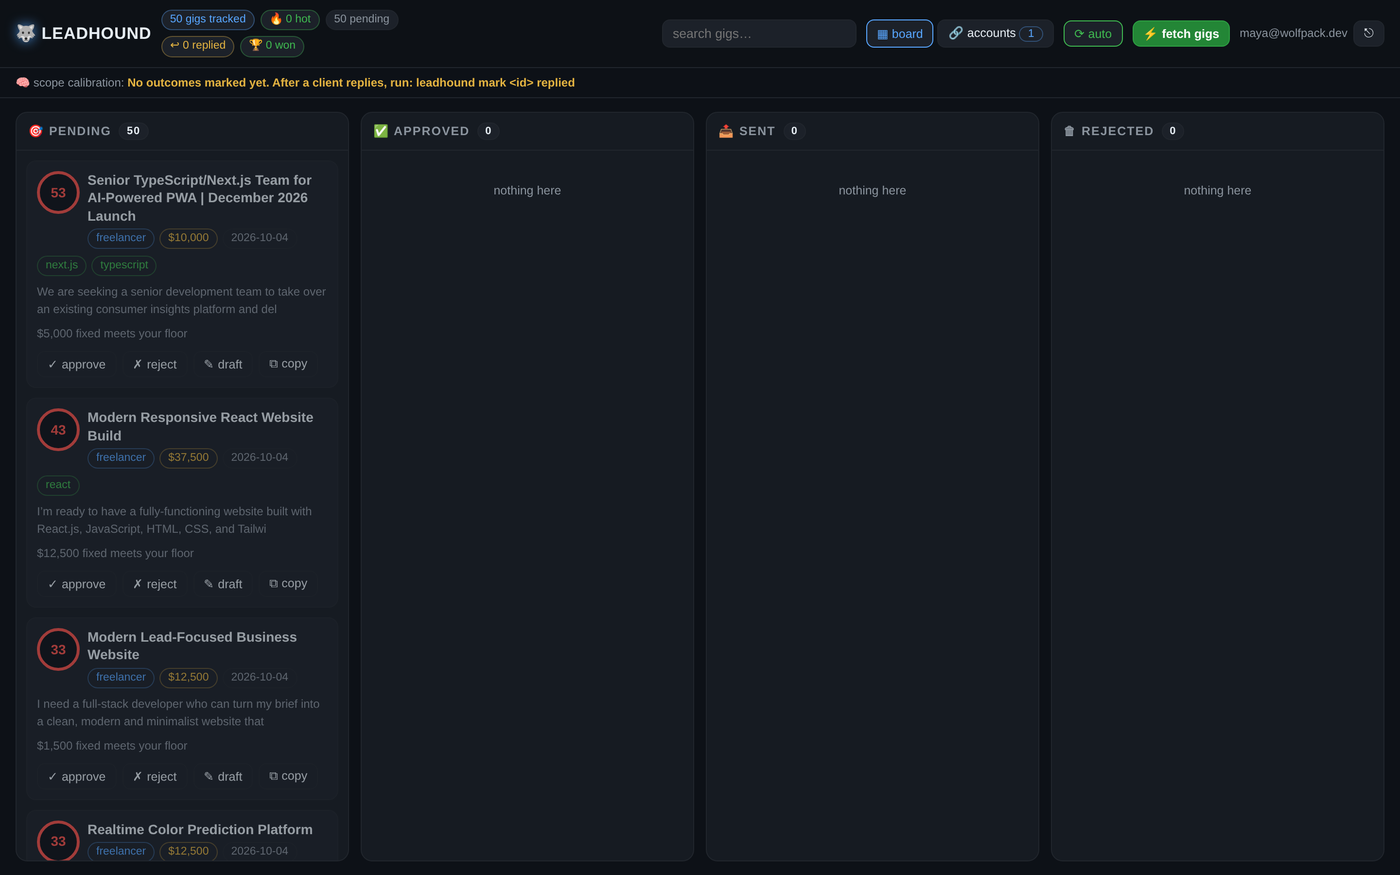
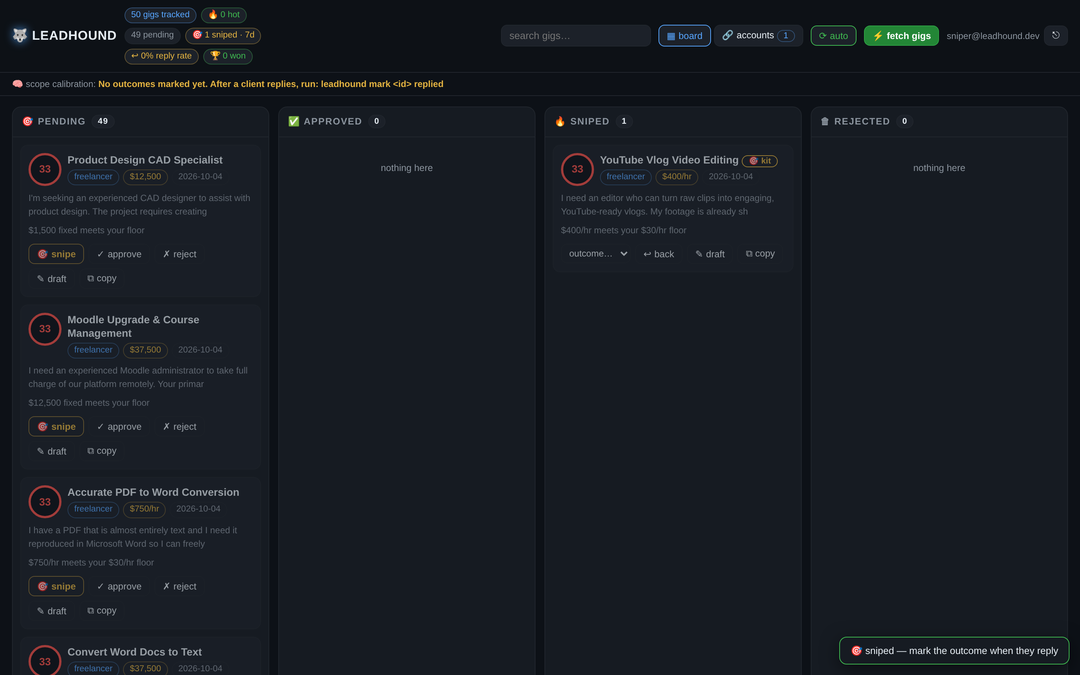
release: v0.7.0 — the sniper release
- 🎯 snipe mode: live-fire real bids (Freelancer.com official API, linked
  account, user-triggered) + honest one-click snipe kit everywhere else
- freelancer_account OAuth link, snipe audit trail, sniper stats chips
- new media: docs/demo-snipe.gif (real Freelancer.com gigs through the
  fire dialog -> confirm -> sniped column), refreshed screenshot.png +
  screenshot-snipe.png
- CHANGELOG 0.7.0, README snipe section + ToS note updated honestly,
  version 0.7.0 (pyproject + package), 206 tests green

diff --git a/leadhound/__init__.py b/leadhound/__init__.py
@@ -4,4 +4,4 @@ Watches freelance job boards, scores every gig against your profile,
 drafts the proposal in your voice. You just approve and send.
 """
 
-__version__ = "0.6.0"
+__version__ = "0.7.0"

diff --git a/README.md b/README.md
@@ -3,7 +3,9 @@
 # 🐺 leadhound
 
 **The gig sniper.** Watches freelance job boards 24/7, scores every gig against
-*your* profile, and drafts the proposal **in your voice** — you just approve and send.
+*your* profile, drafts the proposal **in your voice** — and when you say go, it
+fires with **your own account**: a real bid on Freelancer.com, or a one-click
+snipe kit everywhere else.
 
 *In freelancing, speed wins. The first five proposals on a fresh gig get
 disproportionate replies. leadhound makes sure you're always among them —
@@ -21,10 +23,10 @@ drafted → ✎ review, ✓ approve, 📋 copy. The radar keeps hunting while yo
 [![Code style: ruff](https://img.shields.io/endpoint?url=https://raw.githubusercontent.com/astral-sh/ruff/main/assets/badge/v2.json)](pyproject.toml)
 [![PRs welcome](https://img.shields.io/badge/PRs-welcome-brightgreen.svg)](CONTRIBUTING.md)
 
-**local-first · login system · 8 job-site connectors · REST API (FastAPI) ·
+**local-first · login system · 8 job-site connectors + account link · live-fire sniping · REST API (FastAPI) ·
 native binaries for Windows / macOS / Linux**
 
-**[Quickstart](#-quickstart--three-ways-to-run-it) · [Usage](#-usage--every-way-to-drive-it) · [Sources](#-sources--connect-the-job-sites) · [How it works](#-how-it-works) · [REST API](#-rest-api) · [FAQ](#-faq) · [Author](#-author)**
+**[Quickstart](#-quickstart--three-ways-to-run-it) · [Usage](#-usage--every-way-to-drive-it) · [Sources](#-sources--connect-the-job-sites) · [Snipe mode](#-snipe-mode--fire-with-your-account) · [How it works](#-how-it-works) · [REST API](#-rest-api) · [FAQ](#-faq) · [Author](#-author)**
 
 <sub><b>designed & built by <a href="https://github.com/e2sy">Mayank Bhaskar</a></b></sub>
 
@@ -122,8 +124,32 @@ The **🔗 accounts** tab is where the hunting happens. Every job site gets a ca
 | **Upwork** | your free [dev-app keys](https://www.upwork.com/developer/applications) → 🔗 connect | Official OAuth2 flow, auto-refreshed token, real job search |
 | **Fiverr** *(beta)* | your session cookie | Buyer requests, read-only, from your own logged-in session |
 | **Custom RSS / Atom** | any feed URL | Niche boards, Upwork/Fiverr RSS mirrors, agency feeds — anything |
+| **Freelancer.com account (snipe)** | your free [dev-app keys](https://www.freelancer.com/developers/applications) → 🔗 connect | Official OAuth2 account link — arms 🎯 live-fire bids on every Freelancer.com gig. Never fetches gigs; fires shots. |
 
 Credentials live in your local SQLite, masked in the UI (`•••`) and never sent anywhere except the site you're connecting to. Fiverr is labeled beta honestly: they have no public API, so if their page layout changes, the connector says so instead of pretending.
+
+## 🔥 Snipe mode — fire with YOUR account
+
+v0.7.0 closes the loop: finding gigs was half the job — **firing the shot is the other half**, and now leadhound does it with you:
+
+<p align="center">
+  <img src="docs/demo-snipe.gif" alt="the snipe loop — open the fire dialog on a real gig, review the proposal, copy + open the gig, confirm, the card lands in the Sniped column with a receipt" width="100%">
+</p>
+
+Every pending/approved card has a **🎯 snipe** button. The fire dialog knows two honest modes:
+
+| Mode | When | What happens |
+|---|---|---|
+| **🔥 live-fire** | Freelancer.com gig + your linked account | A **real bid** is placed on Freelancer.com via their official API with your own token — you set the amount and delivery period, hit fire, and the platform bid id lands in your board's audit trail. This is your account, your trigger, on the books. |
+| **🎯 snipe kit** | every other source (Upwork, Fiverr, RSS, HN, …) | Your proposal goes into an editable textarea. One click copies it and opens the gig page in your own logged-in browser session. You paste, you send, you tap *"✓ sent it"* — the shot is recorded honestly. (Upwork's API doesn't let third-party apps submit proposals; Fiverr has no API at all. We won't pretend otherwise.) |
+
+Link your Freelancer.com account in the accounts hub: create a free dev app at [freelancer.com/developers](https://www.freelancer.com/developers/applications), paste the keys, hit 🔗 connect — same two-minute OAuth flow as Upwork. The card shows `linked as @you`, and every Freelancer.com gig becomes live-fire.
+
+Every sniped card tracks the outcome (↩ replied · 🏆 won · ✗ lost) — the scope calibrates on real results, and the chips show your 7-day fire rate and reply rate.
+
+<p align="center">
+  <img src="docs/screenshot-snipe.png" alt="the snipe dialog — kit mode with the generated proposal, editable before firing" width="720">
+</p>
 
 ## 🎯 How it works
 
@@ -146,7 +172,7 @@ Credentials live in your local SQLite, masked in the UI (`•••`) and never 
 | **Parser** | Regex signal extraction: money (hourly / fixed / ranges), client-quality signals (payment verified, past hires, top-rated), red flags, skill matching. |
 | **Scorer** | `skills 0-60 · budget 0-25 · client quality 0-15 · red flags -15 each`. Every gig ships with a human-readable breakdown: *"58 — matched react, typescript; no budget stated (neutral)"*. |
 | **Voice engine** | Template mode works with zero config. Or plug any OpenAI-compatible endpoint (OpenAI, Groq, OpenRouter, local Ollama) and it ghostwrites in your tone, trained on your past winning proposals. |
-| **Approval queue** | Rich CLI queue or Telegram/Discord/Slack cards. **You always fire the final shot.** leadhound is a radar + copilot, *not* an auto-bidder. |
+| **Approval queue** | Rich CLI queue or Telegram/Discord/Slack cards, or the 🎯 snipe button on the dashboard. **You pull the trigger** — live-fire bids are user-clicked only, kit snipes are user-confirmed. leadhound is a radar + copilot, *not* a background auto-bidder. |
 | **Client intel** | Cross-references your own gig history: repeat posters and repeat lowballers get flagged before you spend a minute on the draft. |
 | **Learning loop** | `leadhound mark <id> won/lost/replied` → stats calibrate: winners vs losers by score, with hints to tighten your scope. The tool gets sharper the longer you hunt. |
 | **Web dashboard** | `leadhound web` — a login-protected kanban board of your pipeline: create an account, connect job sites in the accounts tab (setup wizards included), fetch gigs, drag pending → approved → sent, edit drafts in-browser, mark outcomes, live search. Accounts, sessions and per-source configs are stored locally in SQLite. Binds to 127.0.0.1 (or `--host 0.0.0.0` to drive it from your phone). |
@@ -159,8 +185,11 @@ The dashboard is backed by a real REST API (FastAPI). Run the app and open [`/do
 
 ```
 POST /api/auth/register · login · logout        session cookies (HttpOnly, SameSite=Lax)
-GET  /api/state                                 board + stats + calibration
+GET  /api/state                                 board + stats + calibration + snipe stats
 POST /api/status · /api/draft · /api/outcome    pipeline mutations
+GET  /api/jobs/{id}/snipe-plan                  how this gig can be sniped (api vs kit)
+POST /api/jobs/{id}/snipe                       fire: real bid via the linked account
+POST /api/jobs/{id}/snipe-confirm               kit send confirmed by the user
 GET  /api/connectors                            all sources + per-account config
 POST /api/connectors/{id} · {id}/run            configure / fetch a source now
 POST /api/fetch                                 fetch every enabled source now
@@ -175,10 +204,11 @@ Platforms ban bots that log in, scrape logged-in pages, and auto-send. leadhound
 
 - ✅ Zero-config sources read **public** feeds/APIs only, with a polite `User-Agent`
 - ✅ **Upwork** uses the *official* OAuth2 API with keys from your own developer app — no scraping, ever
+- ✅ **Freelancer.com live-fire** bids go through their *official* API with **your own token** — placed only when **you** click 🎯 snipe, never in the background, bid id recorded on your board
 - ✅ Polls at **human-rate** intervals (default 15 min, hard floor 5)
-- ✅ **Never submits anything** — you review and send every proposal yourself
+- ✅ Snipe-kit sends happen in **your own browser session** — leadhound prepares the ammo, you pull the trigger
 - ⚠ The Fiverr (beta) connector reads buyer requests from **your own logged-in session cookie**, read-only, nothing auto-sent — it exists because Fiverr has no API. Use your judgment; if that's too spicy for you, skip that connector.
-- ❌ No auto-bidding, no headless-browser scraping, no account automation
+- ❌ No background auto-bidding, no headless-browser scraping, no account automation
 
 It makes you faster — not banned.
 
@@ -240,9 +270,9 @@ leadhound's Upwork connector uses Upwork's *official* OAuth2 API with keys from 
 </details>
 
 <details>
-<summary><b>Why not an auto-bidder?</b></summary>
+<summary><b>Why not a background auto-bidder?</b></summary>
 
-Because auto-bidders get accounts banned and clients spammed with slop. The 10 seconds you spend tapping "approve" is the feature — quality control stays human. The tool removes the *searching* and the *blank page*, not the judgment.
+Because unattended auto-bidders get accounts banned and clients spammed with slop. v0.7.0 goes as far as a platform officially allows: on Freelancer.com, the 🎯 snipe button places a **real bid through the official API with your own token** — but only when you click, with the amount and proposal you confirmed. On platforms without such an API (Upwork, Fiverr), the snipe kit prepares everything and you pull the trigger in your own session. The tool removes the *searching* and the *blank page*; the judgment — and the trigger — stay yours.
 </details>
 
 <details>

diff --git a/CHANGELOG.md b/CHANGELOG.md
@@ -3,6 +3,23 @@
 All notable changes to leadhound are documented here.
 Format follows [Keep a Changelog](https://keepachangelog.com/en/1.1.0/); versioning follows [SemVer](https://semver.org/).
 
+## [0.7.0] - 2026-10-04
+
+The sniper release. The loop is closed: leadhound doesn't just find and draft — it fires, with YOUR account, and tracks every shot.
+
+### Added
+- **🎯 Snipe mode** — every pending/approved gig card has a snipe button with a fire dialog:
+  - **🔥 live-fire** (Freelancer.com, linked account): a **real bid is placed on Freelancer.com** through the official API with your own token — editable bid amount + delivery period, bid id recorded, toast confirms the shot. User-triggered only; nothing bids in the background.
+  - **🎯 snipe kit** (every other source): the proposal lands in an editable textarea, one click copies it and opens the gig page in your own logged-in session, and an honest confirm step records the send. No fake buttons.
+- **Freelancer.com account link** — a new card in the accounts hub: official OAuth2 (create a free dev app, paste keys, 🔗 connect), the same auto-refreshing token treatment as Upwork. Shows `linked as @username` once connected.
+- **Snipe audit trail** — jobs record `sniped_at`, the method (`freelancer-api` bid id / `kit` confirmation) and a note; the board's Sniped column shows badges with tooltips.
+- **Sniper stats** — chips for sniped-in-7d and reply rate; `GET /api/state` carries `snipe` + `linked`; learning loop stays: mark replied/won/lost to calibrate.
+- **New API**: `GET /api/jobs/{id}/snipe-plan`, `POST /api/jobs/{id}/snipe`, `POST /api/jobs/{id}/snipe-confirm`, plus the Freelancer.com OAuth `auth/start` + `callback` flow.
+
+### Changed
+- The board's "Sent" column is now **🔥 Sniped** — fired shots with receipts, not manual bookkeeping.
+- Hero checklist step 3 is "snipe with your account" — the app now leads all the way to the trigger.
+
 ## [0.6.0] - 2026-10-04
 
 The real-accounts release. The dashboard now leads with connecting your job sites — the sample data takes a back seat.
